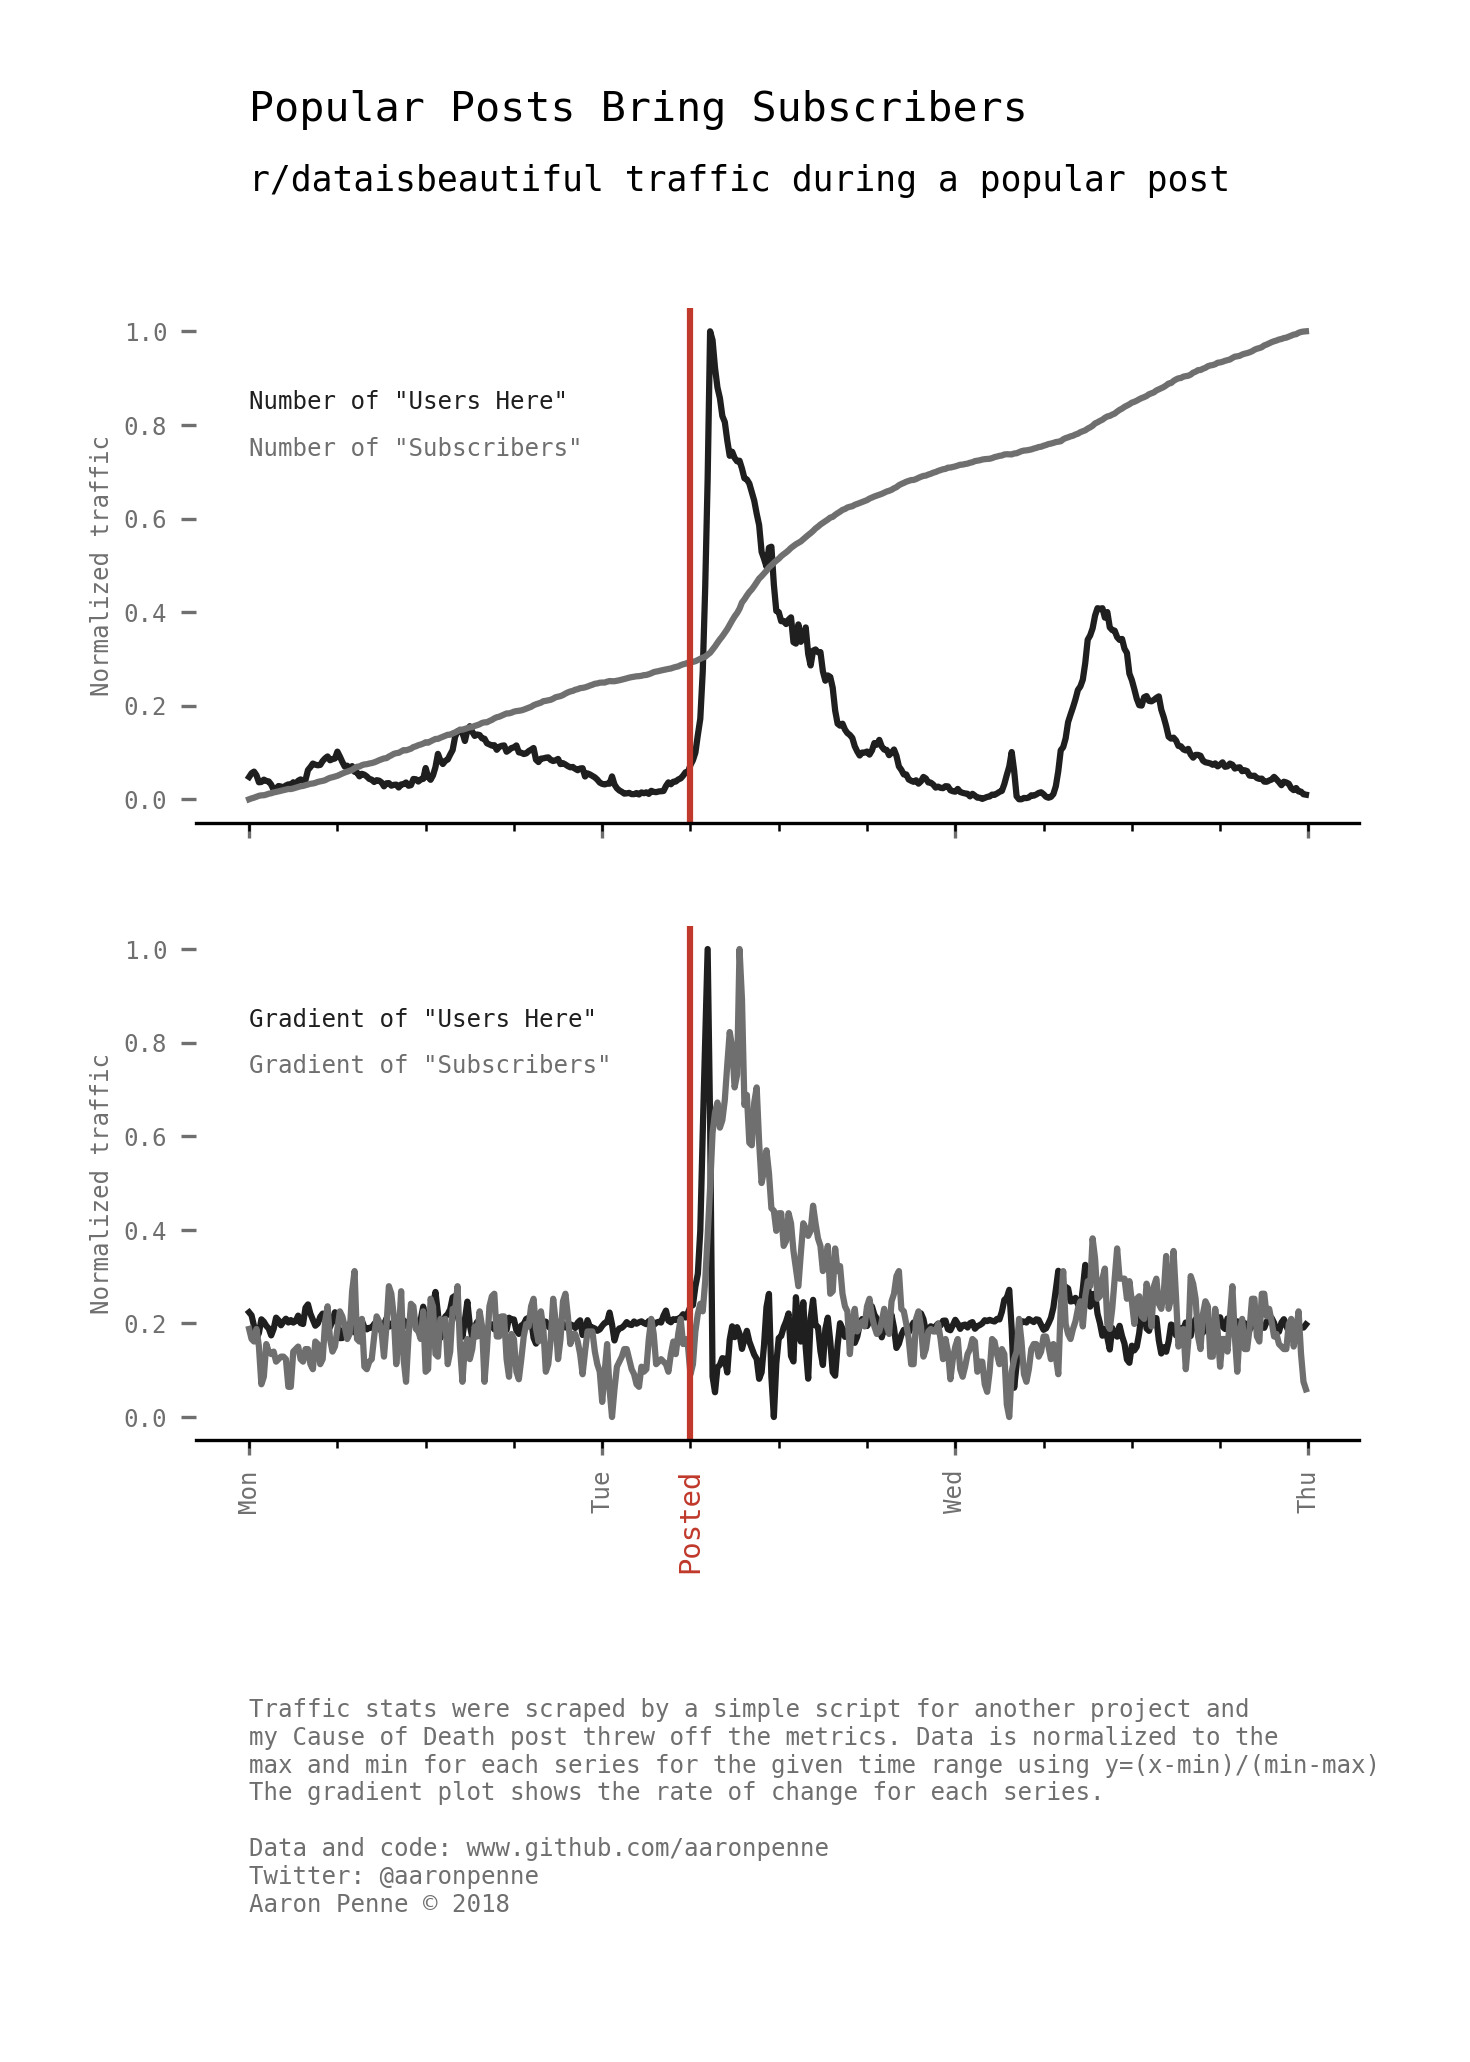
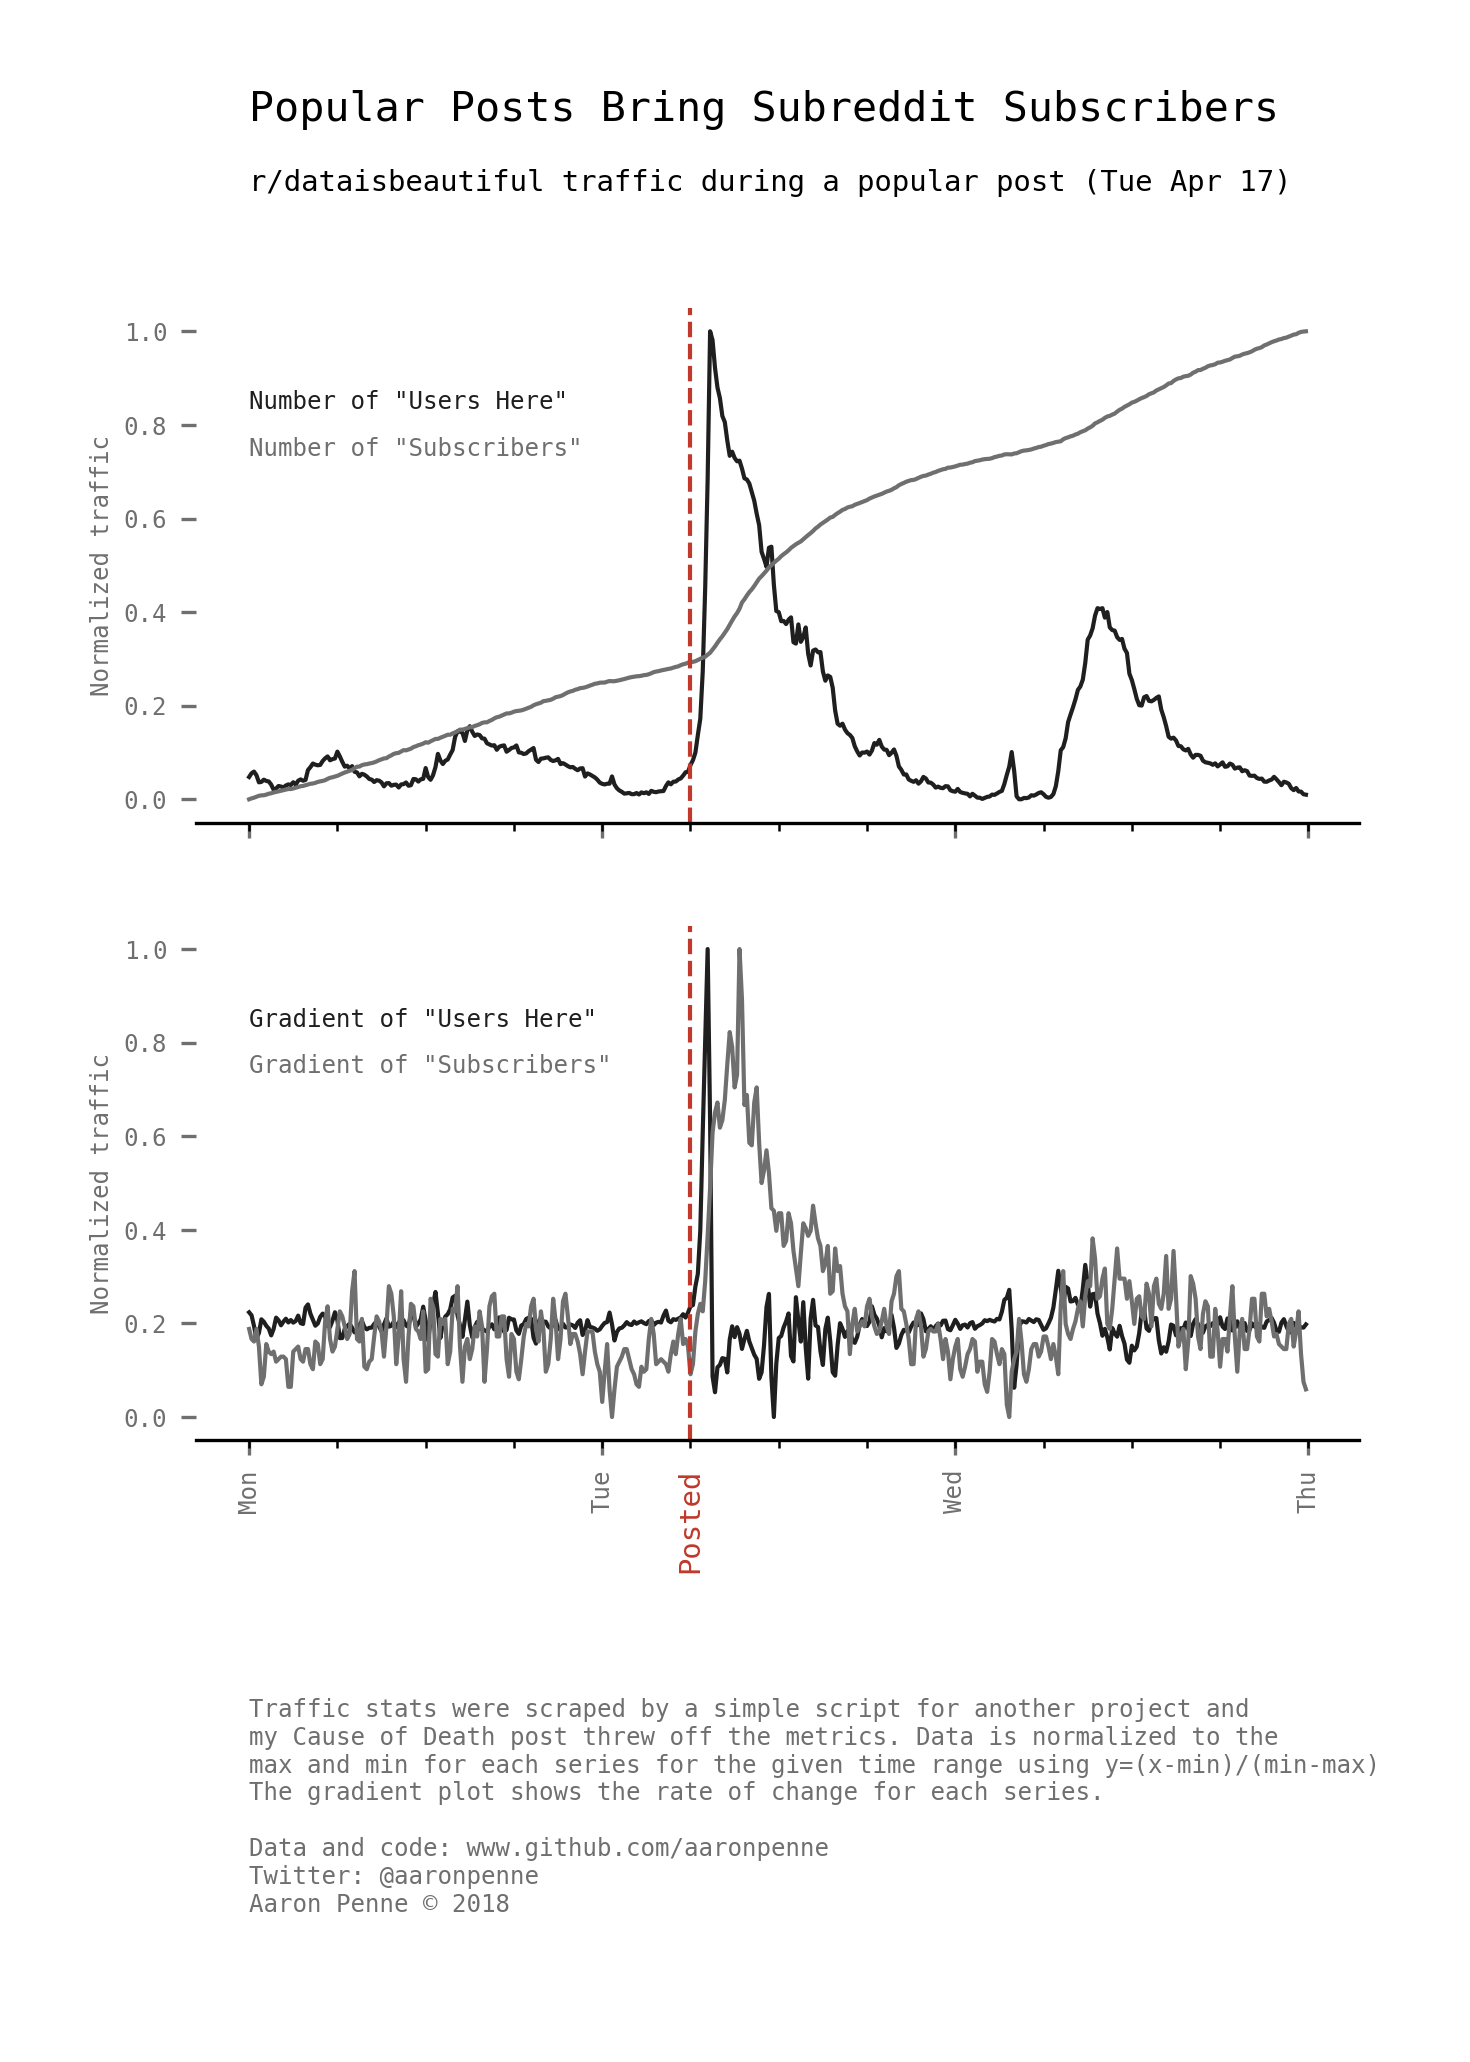
Thinned out lines and fixed aspect ratio.

diff --git a/cause_of_death/post_traffic.py b/cause_of_death/post_traffic.py
@@ -48,14 +48,15 @@ fig, (ax1, ax2) = plt.subplots(nrows=2,
                                  sharey=True, 
                                  figsize=(5,5), 
                                  dpi=300)
-ax1.plot(df['users_n'])
-ax1.plot(df['subs_n'])
+lw = 1
+ax1.plot(df['users_n'], lw=lw)
+ax1.plot(df['subs_n'], lw=lw)
 
-ax2.plot(df['users_d'])
-ax2.plot(df['subs_d'])
+ax2.plot(df['users_d'], lw=lw)
+ax2.plot(df['subs_d'], lw=lw)
 
-ax1.axvline(datetime(2018, 4, 17, 6), color=post_color)
-ax2.axvline(datetime(2018, 4, 17, 6), color=post_color)
+ax1.axvline(datetime(2018, 4, 17, 6), color=post_color, lw=lw, ls='--')
+ax2.axvline(datetime(2018, 4, 17, 6), color=post_color, lw=lw, ls='--')
 ax2.text(datetime(2018, 4, 17, 6), -0.11, 'Posted', rotation=90, size='x-small', color=post_color, ha='center', va='top')
 
 ax1.tick_params(axis='both', which='major', labelsize='xx-small', labelcolor=colors[1], color=colors[1])
@@ -82,8 +83,8 @@ ax1.text(datetime(2018, 4, 15, 14), 0.5, 'Normalized traffic', color=colors[1], 
 ax2.text(datetime(2018, 4, 15, 14), 0.5, 'Normalized traffic', color=colors[1], size='xx-small', rotation=90, va='center', ha='center')
 
 # Annotations
-ax1.text(min(df.index), 1.45, 'Popular Posts Bring Subscribers')
-ax1.text(min(df.index), 1.3, 'r/dataisbeautiful traffic during a popular post', size='small')
+ax1.text(min(df.index), 1.45, 'Popular Posts Bring Subreddit Subscribers')
+ax1.text(min(df.index), 1.3, 'r/dataisbeautiful traffic during a popular post (Tue Apr 17)', size='x-small')
 
 ax2.text(min(df.index), -0.6,
         'Traffic stats were scraped by a simple script for another project and\n' \

diff --git a/cause_of_death/bar_cod.py b/cause_of_death/bar_cod.py
@@ -71,7 +71,7 @@ for res in range(3):
 df = df.drop(columns='cdc2')
 
 for i, col in enumerate(df.columns):
-    fig, ax = plt.subplots(figsize=(4, 6), dpi=150)
+    fig, ax = plt.subplots(figsize=(4, 6), dpi=200)
     width = 1
     top = 0
     for j, row in enumerate(df.index):
